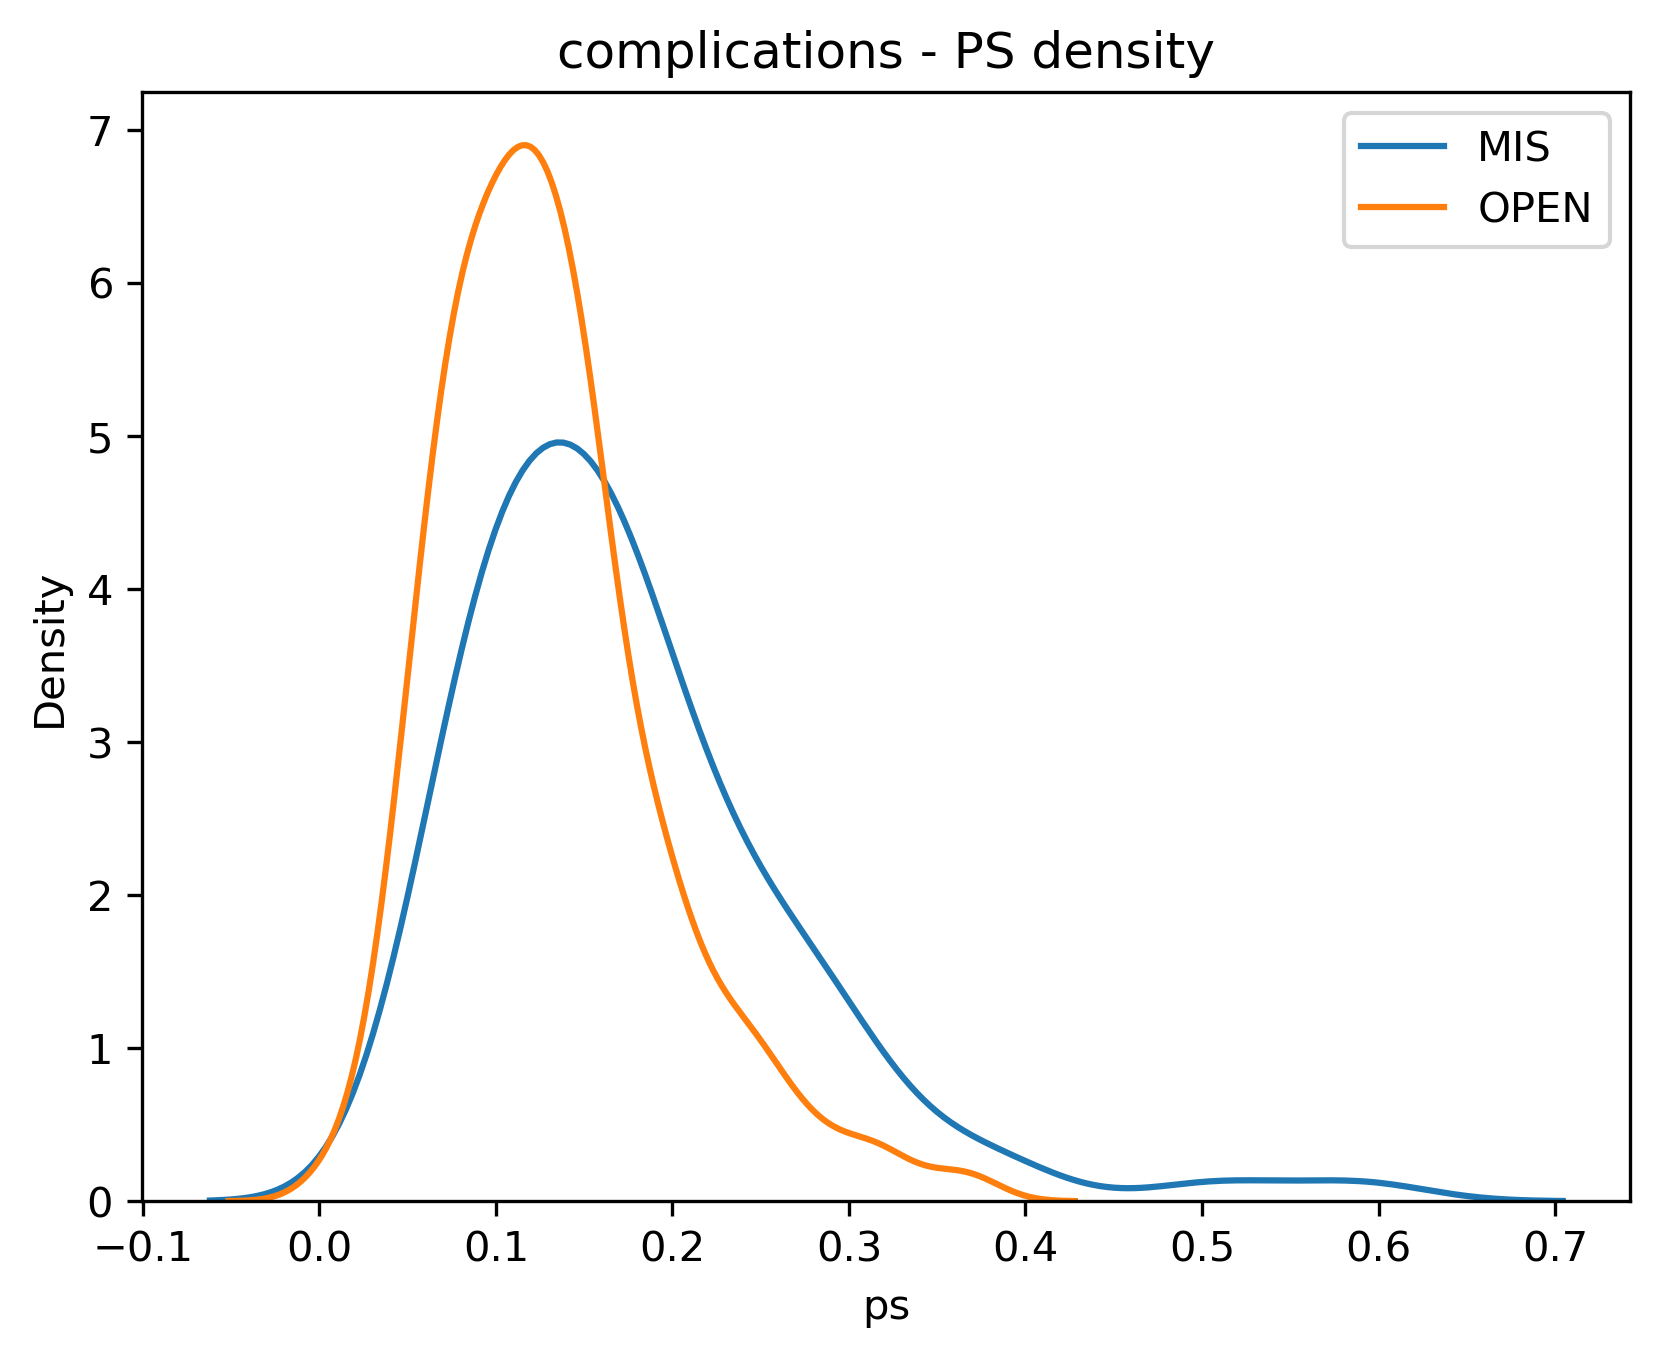
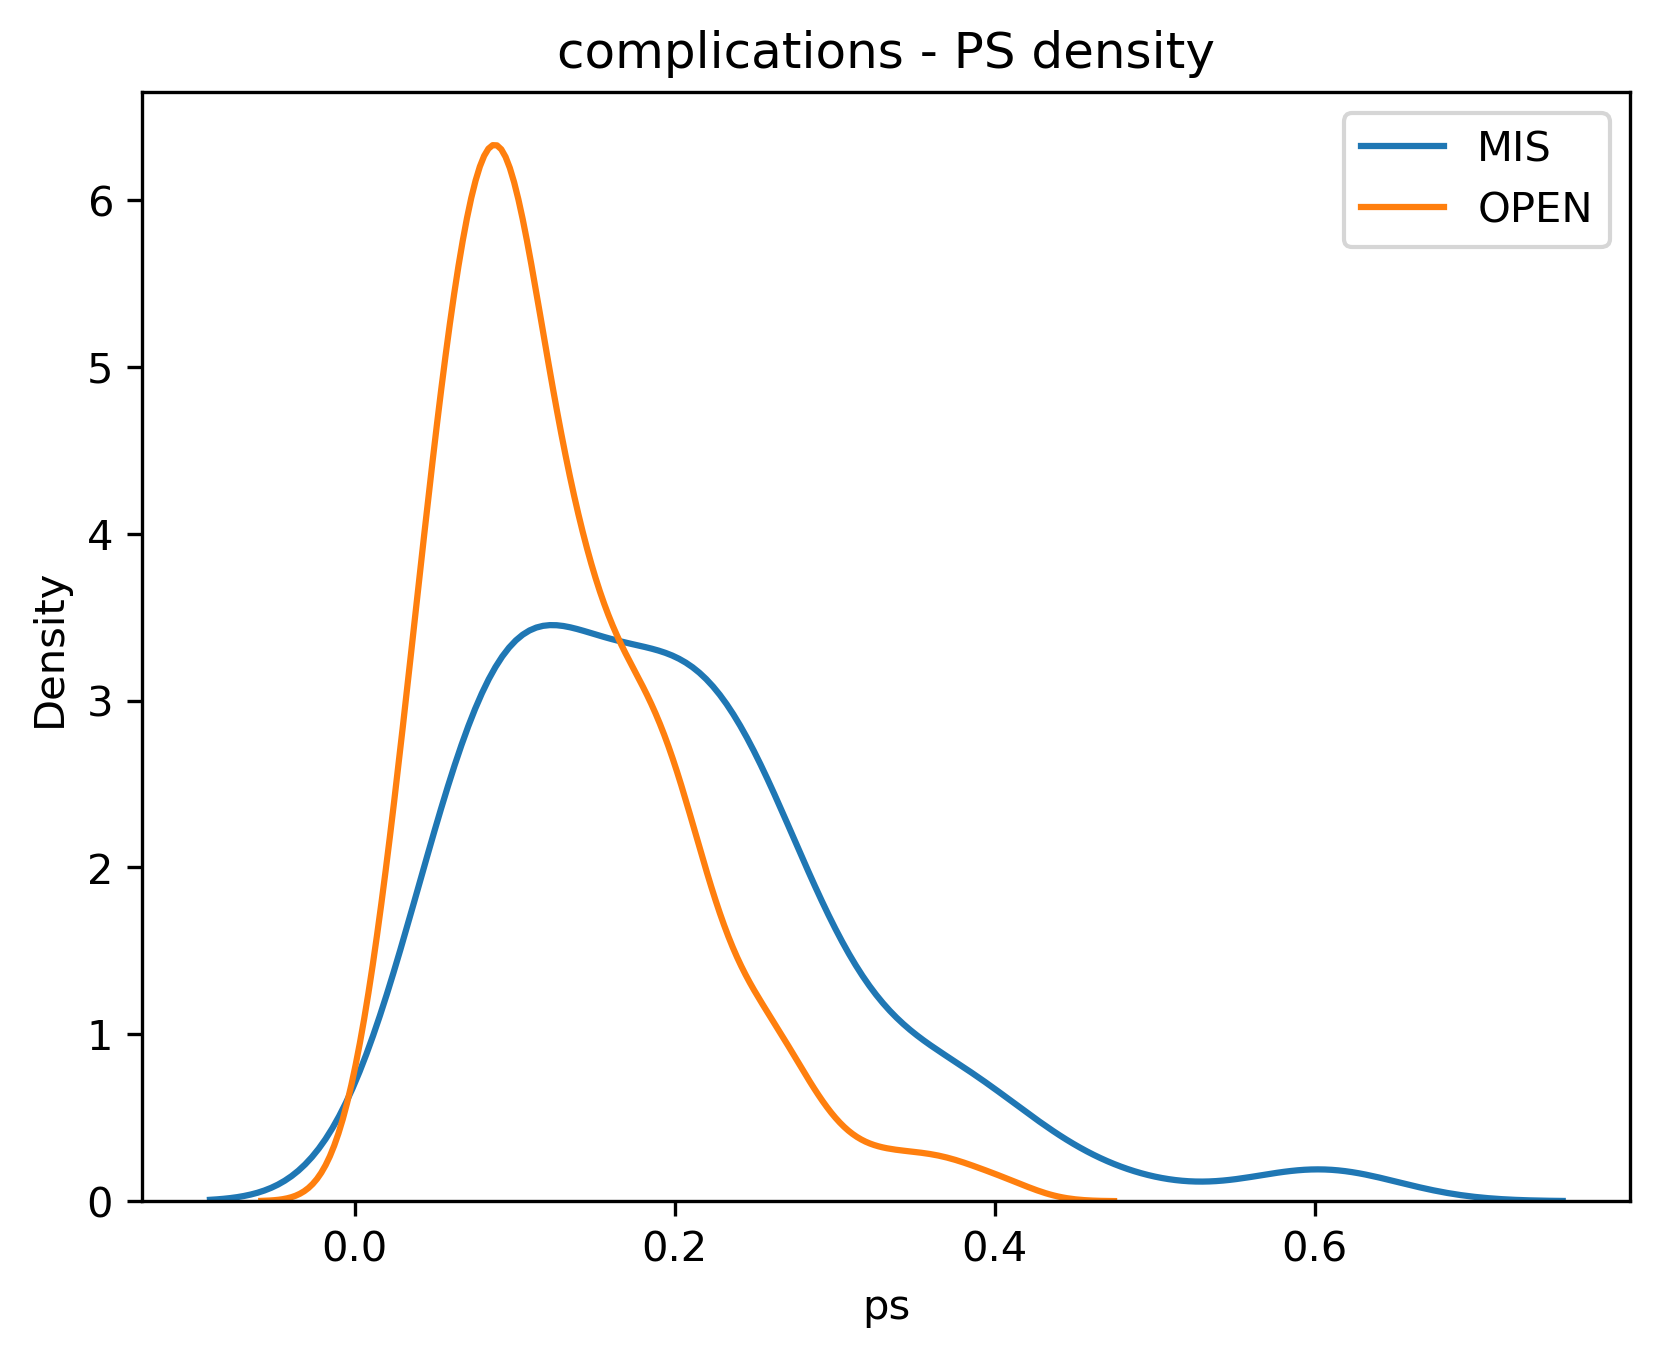
feat: add new variables to regression and split love plot

diff --git a/PSM_analyse.py b/PSM_analyse.py
@@ -38,14 +38,13 @@ def run_psm_batch(file_list, output_dir="PSM_results"):
         # 1 数据准备
         df_model = df.copy().sort_index()
 
-        continuous_vars = ["Age", "BMI", "Tumor Size", "Albumin"]
-        categorical_vars = ["AJCC Stage", "ASA Score"]
+        continuous_vars = ["Age", "BMI", "Albumin"]
+        categorical_vars = ["AJCC Stage", "ASA Score", "pTNM_T", "Anaemia", "Surgical procedure"]
 
         for col in continuous_vars:
             df_model[col] = df_model[col].fillna(df_model[col].median())
-
-        df_model["AJCC Stage"] = df_model["AJCC Stage"].fillna("Unknown")
-        df_model["ASA Score"] = df_model["ASA Score"].fillna("Unknown")
+        for col in categorical_vars:
+            df_model[col] = df_model[col].fillna("Unknown")
 
         df_model["treat"] = df_model["Surgical approach"].map({"OPEN": 0, "MIS": 1})
 
@@ -110,23 +109,51 @@ def run_psm_batch(file_list, output_dir="PSM_results"):
             index=False
         )
 
-        # 5 SMD Love plot
+        # 5 SMD Love plot（split: continuous + categorical）
         X_full = pd.concat([X, df_model["treat"]], axis=1)
         X_matched = pd.concat([X.loc[matched_df.index], matched_df["treat"]], axis=1)
 
-        smd_before = [smd(X_full, c) for c in X.columns]
-        smd_after = [smd(X_matched, c) for c in X.columns]
+        # ---- 分类 dummy变量（get_dummies后的列）----
+        cat_cols = [c for c in X.columns if c not in continuous_vars]
+
+        # 5.1 Continuous variables Love plot
+        smd_before_cont = [smd(X_full, c) for c in continuous_vars]
+        smd_after_cont  = [smd(X_matched, c) for c in continuous_vars]
 
         plt.figure()
-        plt.scatter(smd_before, X.columns, label="Before")
-        plt.scatter(smd_after, X.columns, label="After")
+        plt.scatter(smd_before_cont, continuous_vars, label="Before")
+        plt.scatter(smd_after_cont, continuous_vars, label="After")
         plt.axvline(0.1, linestyle="--")
         plt.gca().invert_yaxis()
         plt.legend()
-        plt.title(f"{dataset_name} - Love plot")
+        plt.title(f"{dataset_name} - Love plot (Continuous)")
+        plt.tight_layout()
 
-        plt.savefig(os.path.join(output_dir, f"{dataset_name}_love_plot.png"),
-                    dpi=300, bbox_inches="tight")
+        plt.savefig(
+            os.path.join(output_dir, f"{dataset_name}_love_plot_continuous.png"),
+            dpi=300,
+            bbox_inches="tight"
+        )
+        plt.close()
+
+        # 5.2 Categorical variables Love plot (dummy variables)
+        smd_before_cat = [smd(X_full, c) for c in cat_cols]
+        smd_after_cat  = [smd(X_matched, c) for c in cat_cols]
+
+        plt.figure()
+        plt.scatter(smd_before_cat, cat_cols, label="Before")
+        plt.scatter(smd_after_cat, cat_cols, label="After")
+        plt.axvline(0.1, linestyle="--")
+        plt.gca().invert_yaxis()
+        plt.legend()
+        plt.title(f"{dataset_name} - Love plot (Categorical)")
+        plt.tight_layout()
+
+        plt.savefig(
+            os.path.join(output_dir, f"{dataset_name}_love_plot_categorical.png"),
+            dpi=300,
+            bbox_inches="tight"
+        )
         plt.close()
 
         # 6 Table1